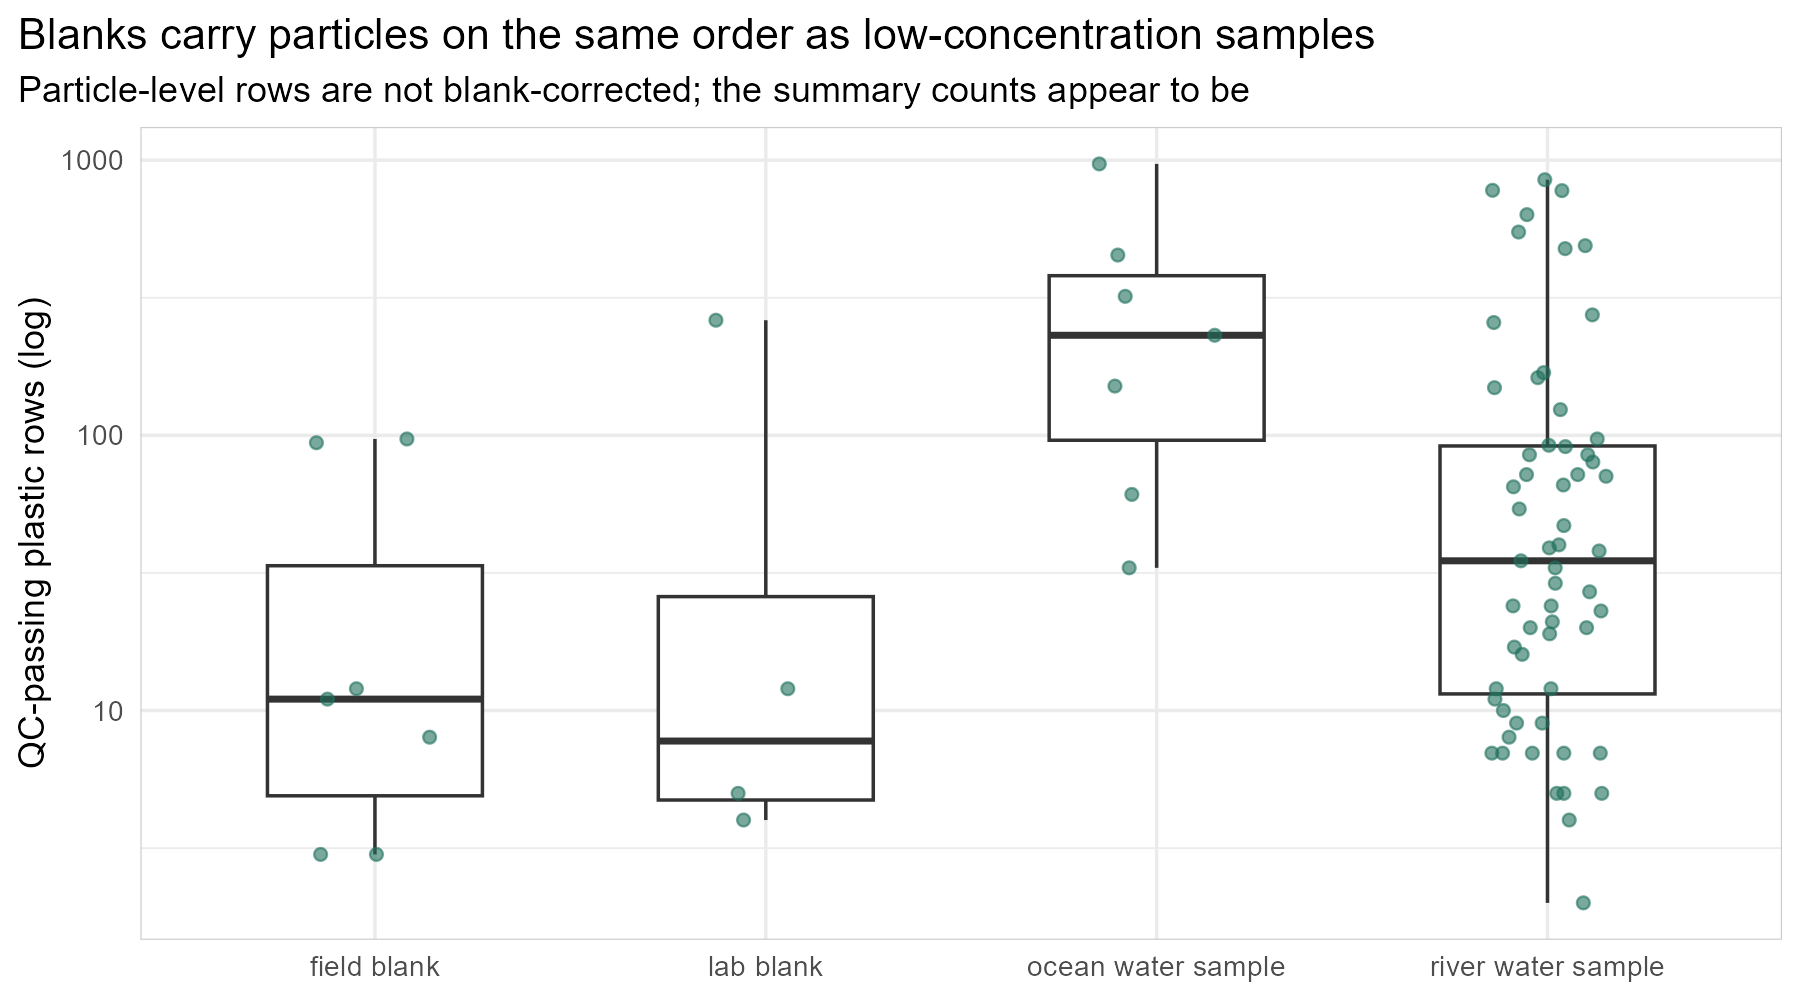
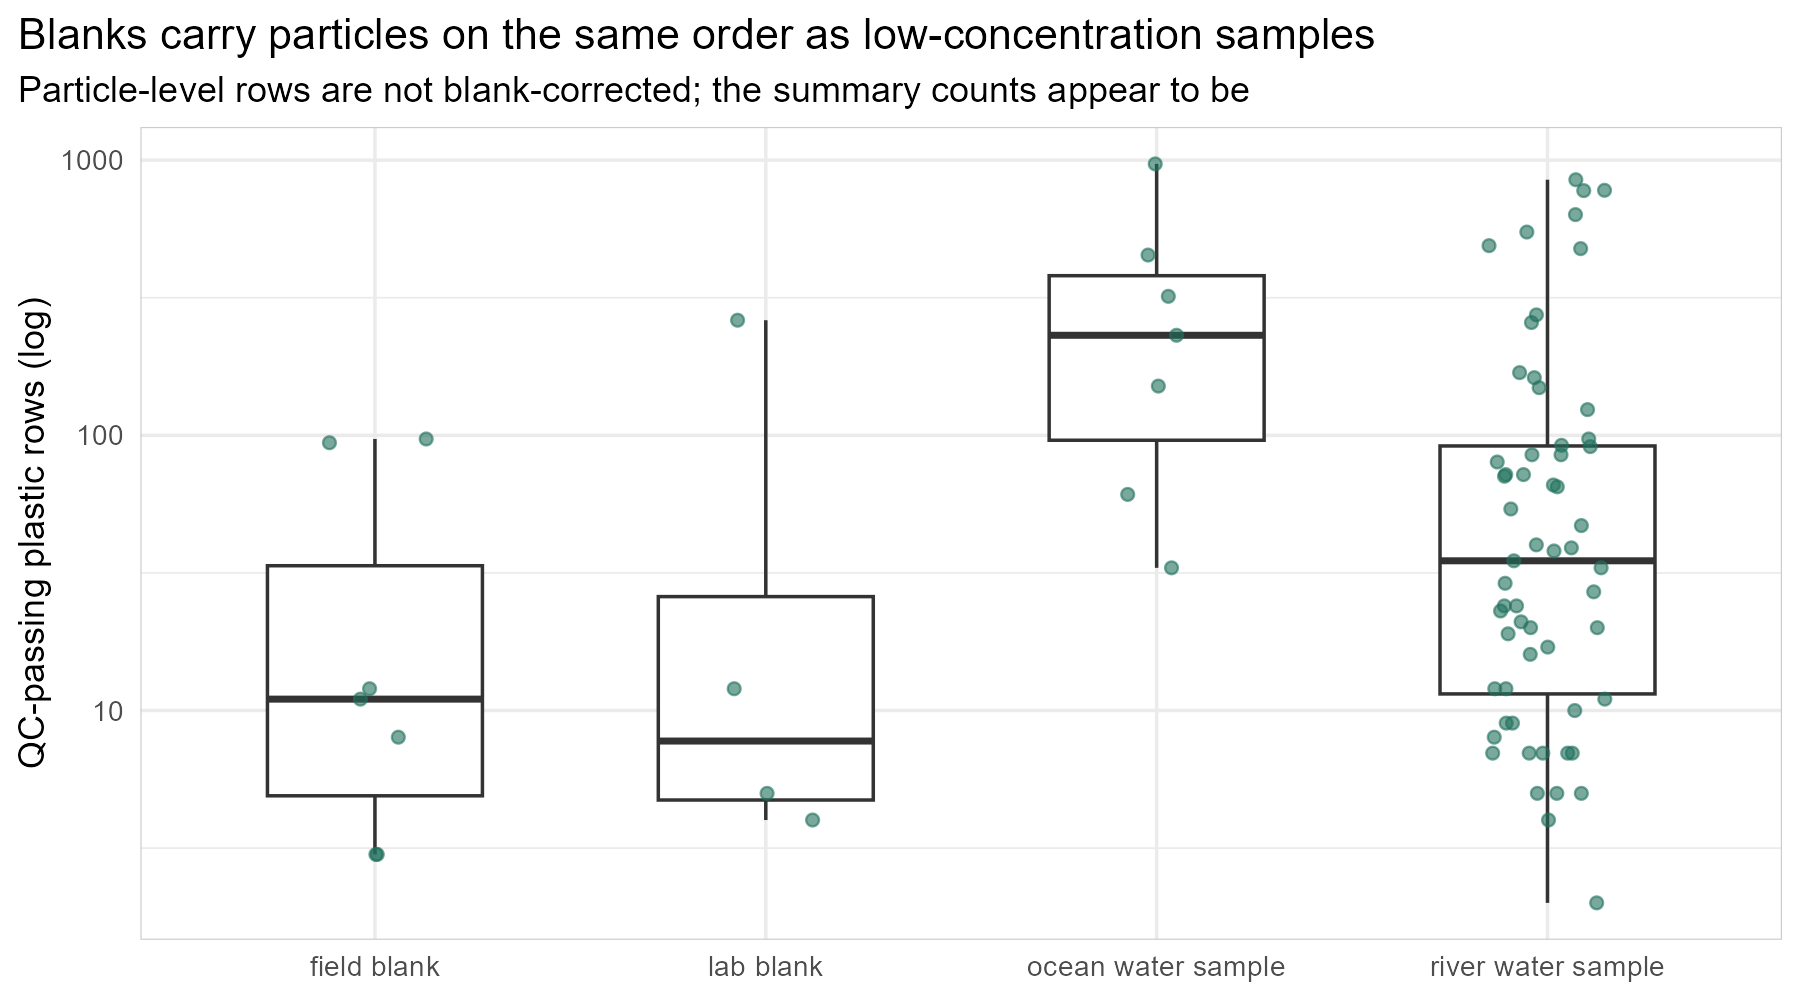
Section 13.7: recommend fixed-window (100-500 um) truncated MLE; add 3-scenario simulation and aligned risk sensitivity; update Section 4.1 and lab sheet

diff --git a/docs/lab_questions/lab_data_questions.md b/docs/lab_questions/lab_data_questions.md
@@ -119,18 +119,18 @@ How each ocean mechanism carries over to rivers:
 
 ![Figure 9](figs/fig9_large_particle_deficit.png)
 
-*Figure 9. Particles at or above each length (solid) against the power law fitted only to the particles inside each river's fit window (dashed). In Carmel, Pajaro and Salinas the observed curve falls away from the power law near the 500 µm sieve boundary: there are only 36–47% as many particles above the window as expected. San Lorenzo, whose window ends at 330 µm, has the expected number.*
+*Figure 9. Particles at or above each length (solid) against the power law fitted by maximum likelihood to the particles between 100 and 500 µm (dashed). In Carmel, Pajaro and Salinas the observed curve falls away from the power law near the 500 µm sieve boundary: there are only 28–52% as many particles above the fit window as expected. San Lorenzo, whose window ends at 330 µm, has about the expected number (116%).*
 
 The steep river slopes come mostly from a shortage of large particles, not from the rivers or from contamination. The Segur et al. (2026) C-PSD method regresses the number of particles at or above each size. Every point in the fit window therefore also counts the particles above the window, and a shortage there bends the top of the window down and steepens the slope. Segur et al. describe this right-tail "slump" and tie the upper detection limit to the sampled volume and the fraction of the filter analysed.
 
-| River | C-PSD slope (production) | Maximum-likelihood slope, same window | Particles above window, observed vs expected |
-|---|---|---|---|
-| Carmel | −2.61 | −2.08 | 47% |
-| Pajaro | −3.46 | −2.81 | 38% |
-| Salinas | −3.04 | −2.42 | 36% |
-| San Lorenzo | −2.40 | −2.44 | 108% |
+| River | C-PSD slope (production) | Maximum-likelihood slope, 100–500 µm | Particles above window, observed vs expected | Correction factor 50–500 → 1–5000 µm: C-PSD vs MLE |
+|---|---|---|---|---|
+| Carmel | −2.61 | −2.16 | 52% | 557 vs 100 (5.5×) |
+| Pajaro | −3.46 | −2.58 | 28% | 15,170 vs 497 (31×) |
+| Salinas | −3.04 | −2.26 | 29% | 2,950 vs 146 (20×) |
+| San Lorenzo | −2.40 | −2.49 | 116% | 249 vs 351 (0.7×) |
 
-The power-law fitting literature recommends maximum likelihood on the individual measurements, bounded at both ends when the upper tail is incomplete. On that basis the C-PSD slopes for Carmel, Pajaro and Salinas are too steep, which inflates the extrapolated concentrations about 7–13-fold. The report now includes this comparison, a simulation of each estimator and a risk sensitivity (Section 13.7). Subtracting the expected blank particles changes the slopes only slightly (+0.06 to +0.30), so contamination is not the cause.
+The power-law fitting literature recommends maximum likelihood on the individual measurements, bounded at both ends when the upper tail is incomplete, over a window fixed in advance. Here that window is 100–500 µm: reliable µFTIR detection starts around 100 µm, and 500 µm is the sieve boundary. In simulation, this estimator stays close to the true slope whether large or small particles are undercounted; the C-PSD fit becomes about 0.4 too steep when large particles are undercounted. On that basis the C-PSD slopes for Carmel, Pajaro and Salinas are too steep, which inflates their extrapolated concentrations 5.5–31-fold. The report now includes this comparison, the simulation and a risk sensitivity (Section 13.7). Subtracting the expected blank particles changes the slopes only slightly (+0.06 to +0.30), so contamination is not the cause.
 
 Whether the shortage is real or a counting artefact is a question for the lab: were the 212–500 µm and >500 µm sieve fractions aliquoted, imaged or counted differently from the <212 µm fraction? → Q6, Q7
 
